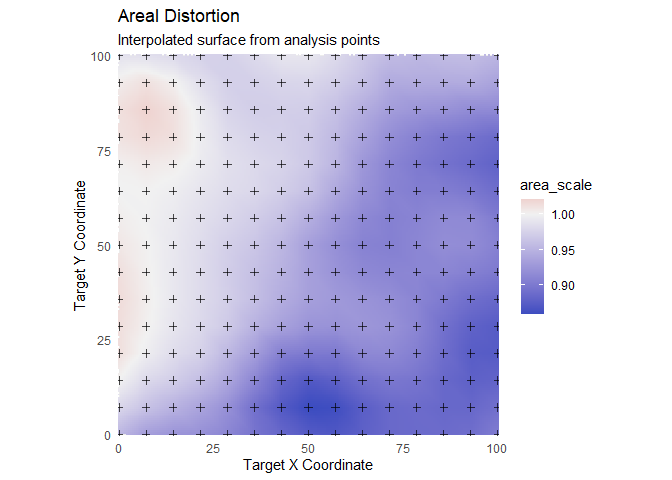
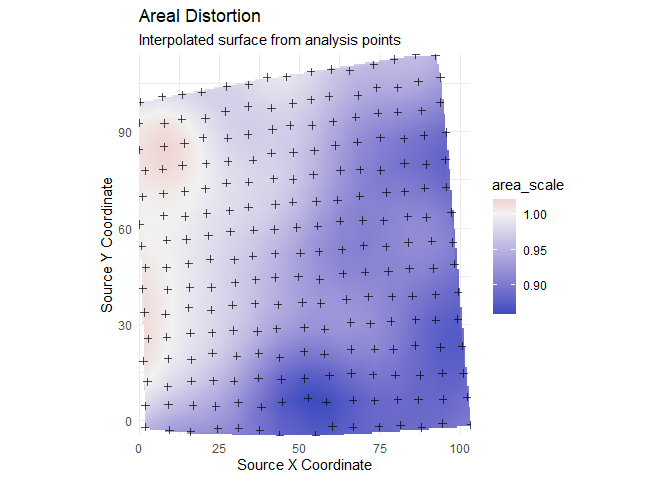
show raster capabilities and distortion analysis in README

diff --git a/README.md b/README.md
@@ -14,23 +14,25 @@ stable](https://img.shields.io/badge/lifecycle-stable-brightgreen.svg)](https://
 
 The `mapAI` package is designed to provide a comprehensive and
 accessible PAI (positional accuracy improvement) framework for vector
-geospatial data.
+and raster geospatial data.
 
 ## Overview
 
 The `mapAI` package provides a comprehensive and accessible framework
-for Positional Accuracy Improvement (PAI) of vector geospatial data.
-This package’s main contributions are:
+for Positional Accuracy Improvement (PAI) of both vector (`sf`) and
+raster (`terra::SpatRaster`) geospatial data. This package’s main
+contributions are:
 
 1)  the unification of a set of PAI methods from classical adjustments
     to statistical and machine learning algorithms, within a framework
-    engineered to modify the geometry of spatial features;
+    engineered to modify the geometry of vector features and spatial
+    alignment of raster maps;
 
 2)  the application of modern best practices regarding predictive
     accuracy assessment using various validation methods, and;
 
-3)  the integration of distortion analysis into the PAI workflow,
-    providing powerful diagnostics.
+3)  the integration of distortion analysis into the PAI workflow for
+    both vector and raster data, providing powerful diagnostics.
 
 ## Installation
 
@@ -56,7 +58,7 @@ complex, noisy distortions.
 ``` r
 library(mapAI)
 library(sf)
-#> Linking to GEOS 3.13.1, GDAL 3.11.0, PROJ 9.6.0; sf_use_s2() is TRUE
+#> Linking to GEOS 3.14.1, GDAL 3.12.1, PROJ 9.7.1; sf_use_s2() is TRUE
 library(ggplot2)
 
 # Generate a shapefile and a GCPs CSV with complex noisy distortions
@@ -68,7 +70,7 @@ demo_data <- create_demo_data(type = "complex", seed = 1)
 plot(demo_data$gcp, main = "Homologous Points (GCPs)")
 ```
 
-<img src="man/figures/README-data-creation-1.png" width="100%" />
+<img src="man/figures/README-data-creation-1.png" alt="" width="100%" />
 
 ### 2. Read Data and Train a Model
 
@@ -113,7 +115,50 @@ ggplot(comparison_data) +
   theme_minimal()
 ```
 
-<img src="man/figures/README-apply-and-visualize-1.png" width="100%" />
+<img src="man/figures/README-apply-and-visualize-1.png" alt="" width="100%" />
+
+### 4. Correcting Raster Maps (In-Memory)
+
+The same trained PAI model can also be applied directly to rectify
+continuous or categorical raster data (e.g., scanned historical paper
+maps, aerial photographs, or digital elevation models) using
+`terra::SpatRaster`.
+
+All raster transformations operate strictly in memory without creating
+temporary files:
+
+``` r
+library(terra)
+
+# Generate demo data including an in-memory raster map
+demo_raster_data <- create_demo_data(type = "complex", seed = 1, raster = TRUE)
+distorted_raster <- demo_raster_data$raster
+
+# Apply the trained model to correct the raster
+# Uses inverse mapping with bilinear interpolation
+corrected_raster <- transform_map(
+  gam_model,
+  distorted_raster,
+  method = "bilinear"
+)
+
+# Visualize original vs. corrected raster side-by-side
+par(mfrow = c(1, 2))
+terra::plot(distorted_raster, main = "Original (Distorted) Raster", col = terrain.colors(50))
+terra::plot(corrected_raster, main = "mapAI-Corrected Raster", col = terrain.colors(50))
+par(mfrow = c(1, 1))
+```
+
+<img src="man/figures/README-raster-correction-1.png" alt="" width="100%" />
+
+Key raster capabilities: - **Inverse (Backward) Mapping**: Projects
+regular target grid cell centers backward into the source image space,
+eliminating holes and pixel collisions. - **Continuous & Categorical
+Support**: Uses `"bilinear"` interpolation for continuous surfaces and
+`"near"` (nearest neighbor) for discrete thematic layers. - **Fast Mesh
+Subsampling (`mesh_step`)**: Enables high-performance warping on large
+rasters with sub-pixel precision. - **Pure In-Memory Operations**:
+Entirely preserves RAM efficiency with zero disk overhead.
 
 ------------------------------------------------------------------------
 
@@ -124,7 +169,7 @@ have learned. `mapAI` directly addresses this by providing tools to
 “open the black box” and analyze the properties of the learned
 transformation.
 
-### 4. Quantify and Visualize the Distortion Field
+### 5. Quantify and Visualize the Distortion Field
 
 The `analyze_distortion()` function computes local distortion metrics
 across the map space. This allows us to move from a simple visual
@@ -132,17 +177,17 @@ assessment to a quantitative map of the distortions that the model
 learns.
 
 ``` r
-# 1. Analyze the distortion using our trained GAM model
+# 1. Analyze the distortion using our trained GAM model on GCPs
 distortion_results <- analyze_distortion(gam_model, gcp_data)
 
-# 2. Plot the distortion surfaces
+# 2. Plot the distortion surfaces interpolating the values on gcp's location
 plot(distortion_results,
      metric = "area_scale",
      diverging = TRUE) +
   labs(title = "Areal Distortion")
 ```
 
-<img src="man/figures/README-advanced-analysis-1.png" width="100%" />
+<img src="man/figures/README-advanced-analysis-1.png" alt="" width="100%" />
 
 ``` r
 
@@ -152,7 +197,22 @@ plot(
   labs(title = "Maximum Shear Distortion (°)")
 ```
 
-<img src="man/figures/README-advanced-analysis-2.png" width="100%" />
+<img src="man/figures/README-advanced-analysis-2.png" alt="" width="100%" />
+
+`analyze_distortion()` also evaluates distortion directly on in-memory
+`terra::SpatRaster` objects, returning an 8-layer raster containing all
+Tissot indicatrix metrics:
+
+``` r
+# Evaluate distortion across all cell centers of the raster
+raster_distortion <- analyze_distortion(gam_model, newdata = distorted_raster)
+
+# Plot key distortion metric layers directly from the raster
+terra::plot(raster_distortion[[c("area_scale", "max_shear")]],
+            main = c("Raster Areal Distortion", "Raster Max Shear (°)"))
+```
+
+<img src="man/figures/README-raster-distortion-1.png" alt="" width="100%" />
 
 ## Meta
 
